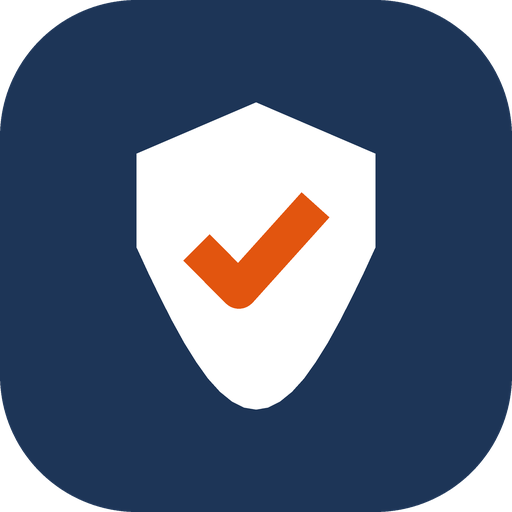
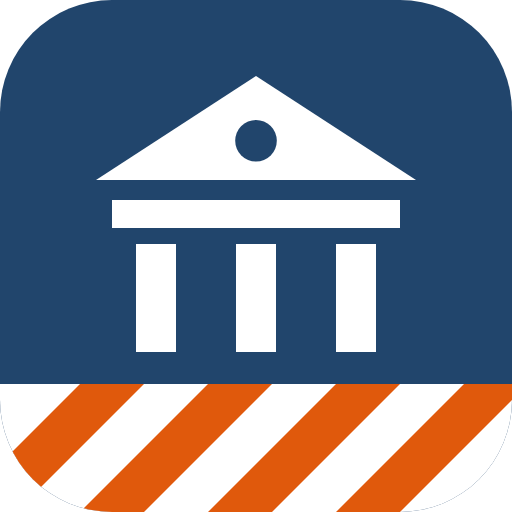
Accessibilité, identité visuelle, exemple signalé comme fictif
- Accessibilité : contrastes d'au moins 4,5:1 (orange de signal assombri), titre de niveau 1, lien d'évitement, onglets reliés au panneau, champs modifiables nommés ; aucune erreur axe-core WCAG 2.2 AA sur les onze écrans, en clair et en sombre
- Identité : marque fronton de mairie et bandeau d'exercice, icônes d'application, favicon, page de garde du dossier
- Documents d'exemple marqués « Exemple sur une commune fictive »
- 53 vérifications

Claude-Session: https://claude.ai/code/session_01JrXbuHfXfhv6oEXZLmKVKV

diff --git a/index.html b/index.html
@@ -7,8 +7,9 @@
 <meta name="theme-color" content="#ffffff" media="(prefers-color-scheme: light)">
 <meta name="theme-color" content="#191e26" media="(prefers-color-scheme: dark)">
 <link rel="manifest" href="manifest.webmanifest">
-<link rel="icon" href="icon-192.png">
-<link rel="apple-touch-icon" href="icon-192.png">
+<link rel="icon" href="favicon.svg" type="image/svg+xml">
+<link rel="icon" href="icon-192.png" sizes="192x192">
+<link rel="apple-touch-icon" href="apple-touch-icon.png">
 <link rel="stylesheet" href="fonts/polices.css" data-polices>
 <!-- debut-contenu -->
 <title>Commune Prête</title>
@@ -22,9 +23,9 @@
    Une seule couleur de signal, l'orange d'exercice, réservée au marquage et à ce qui demande une action. */
 :root{
   --bg:#e8ecf0; --surface:#ffffff; --surface-2:#f2f4f7; --sunk:#e1e6ec;
-  --ink:#17202b; --muted:#536070; --faint:#8a94a1; --line:#dbe1e7; --line-2:#c6cfd9;
+  --ink:#17202b; --muted:#536070; --faint:#646f7d; --line:#dbe1e7; --line-2:#c6cfd9;
   --primary:#21456c; --primary-ink:#ffffff; --primary-soft:#e4ebf3;
-  --accent:#d4530a; --accent-soft:#fbece2;
+  --accent:#b84605; --accent-soft:#fbece2;
   --ok:#22744a; --ok-soft:#e1f1e8; --warn:#8f5c0d; --warn-soft:#f8eedc; --bad:#ac281c; --bad-soft:#f9e4e1;
   --violet:#6a4fc4; --teal:#0d7474;
   --shadow:0 1px 0 rgba(23,32,43,.04),0 1px 2px rgba(23,32,43,.06);
@@ -37,7 +38,7 @@
 }
 @media (prefers-color-scheme: dark){:root:not([data-theme="light"]){
   --bg:#11151b; --surface:#191e26; --surface-2:#20262f; --sunk:#0d1116;
-  --ink:#e2e7ed; --muted:#9aa5b2; --faint:#6c7784; --line:#29313c; --line-2:#36404c;
+  --ink:#e2e7ed; --muted:#9aa5b2; --faint:#8793a1; --line:#29313c; --line-2:#36404c;
   --primary:#a9c4e5; --primary-ink:#11151b; --primary-soft:#1d2a3a;
   --accent:#ee8648; --accent-soft:#36231a;
   --ok:#66c393; --ok-soft:#15271d; --warn:#dfac58; --warn-soft:#2c2313; --bad:#ee7c70; --bad-soft:#331a18;
@@ -45,7 +46,7 @@
   --shadow:0 1px 0 rgba(0,0,0,.25); --shadow-lg:0 20px 44px -20px rgba(0,0,0,.7); color-scheme:dark}}
 :root[data-theme="dark"]{
   --bg:#11151b; --surface:#191e26; --surface-2:#20262f; --sunk:#0d1116;
-  --ink:#e2e7ed; --muted:#9aa5b2; --faint:#6c7784; --line:#29313c; --line-2:#36404c;
+  --ink:#e2e7ed; --muted:#9aa5b2; --faint:#8793a1; --line:#29313c; --line-2:#36404c;
   --primary:#a9c4e5; --primary-ink:#11151b; --primary-soft:#1d2a3a;
   --accent:#ee8648; --accent-soft:#36231a;
   --ok:#66c393; --ok-soft:#15271d; --warn:#dfac58; --warn-soft:#2c2313; --bad:#ee7c70; --bad-soft:#331a18;
@@ -59,6 +60,9 @@ img{max-width:100%}
 button{font-family:inherit;color:inherit}
 a{color:var(--primary);text-underline-offset:2px}
 ::selection{background:var(--primary-soft)}
+.skip{position:absolute;left:12px;top:-60px;z-index:60;background:var(--primary);color:var(--primary-ink);padding:10px 14px;border-radius:var(--r-sm);font-weight:700;text-decoration:none}
+.skip:focus{top:10px}
+.sr{position:absolute;width:1px;height:1px;padding:0;margin:-1px;overflow:hidden;clip:rect(0,0,0,0);white-space:nowrap;border:0}
 :focus-visible{outline:2px solid var(--primary);outline-offset:2px}
 *{scrollbar-width:thin;scrollbar-color:var(--line-2) transparent}
 
@@ -67,6 +71,7 @@ a{color:var(--primary);text-underline-offset:2px}
 .appbar .in{height:var(--bar);padding-inline:20px;display:flex;align-items:center;gap:14px}
 .logo{display:flex;align-items:center;gap:10px;font-weight:700;font-size:16px;letter-spacing:-.005em;white-space:nowrap}
 .logo svg{flex:none}
+.logo h1{margin:0;font:inherit;letter-spacing:inherit}
 .logo small{font-weight:400;font-size:13.5px;color:var(--muted);margin-left:10px;padding-left:12px;border-left:1px solid var(--line)}
 .status{margin-left:auto;display:flex;align-items:center;gap:16px}
 .pill{display:inline-flex;align-items:center;gap:8px;font-size:13px;color:var(--muted);white-space:nowrap}
@@ -190,7 +195,7 @@ details.more .inner{display:flex;flex-direction:column;gap:12px;padding-bottom:1
 .tabs.ovf{-webkit-mask-image:linear-gradient(90deg,#000 calc(100% - 36px),transparent);mask-image:linear-gradient(90deg,#000 calc(100% - 36px),transparent)}
 .tabs.ovf.end{-webkit-mask-image:linear-gradient(90deg,transparent,#000 36px);mask-image:linear-gradient(90deg,transparent,#000 36px)}
 .tabs.ovf.mid{-webkit-mask-image:linear-gradient(90deg,transparent,#000 36px,#000 calc(100% - 36px),transparent);mask-image:linear-gradient(90deg,transparent,#000 36px,#000 calc(100% - 36px),transparent)}
-.tgrp{font-size:12.5px;color:var(--faint);padding:2px 4px 0 18px;white-space:nowrap}
+.tgrp{font-size:12.5px;color:var(--muted);padding:2px 4px 0 18px;white-space:nowrap}
 .tgrp:first-child{padding-left:2px}
 .tab{border:0;background:transparent;font-size:14px;color:var(--muted);padding:9px 9px 10px;cursor:pointer;white-space:nowrap;position:relative;border-radius:var(--r-sm) var(--r-sm) 0 0}
 .tab:hover{color:var(--ink);background:color-mix(in srgb,var(--surface) 55%,transparent)}
@@ -217,6 +222,7 @@ details.more .inner{display:flex;flex-direction:column;gap:12px;padding-bottom:1
 .dochead .meta{font-size:13px;color:var(--muted);margin-top:3px}
 .docbody{padding:30px clamp(18px,4vw,48px) 40px;display:flex;flex-direction:column;gap:28px}
 .docbody h3{font-family:var(--f-doc);font-size:clamp(24px,2.6vw,30px);line-height:1.2;font-weight:600;letter-spacing:-.01em;margin:0;text-wrap:balance}
+.docbody h2.obst{font-family:var(--f-doc);font-size:clamp(24px,2.6vw,30px);line-height:1.2;font-weight:600;margin:0}
 .docbody h4{font-size:15px;font-weight:700;color:var(--ink);margin:0;display:flex;align-items:center;gap:12px}
 .docbody h4::after{content:"";flex:1;height:1px;background:var(--line)}
 .docbody p{margin:0;max-width:72ch}
@@ -305,6 +311,8 @@ td.tm{font-weight:700;white-space:nowrap}
 .lhead .btn{background:transparent;color:var(--surface);border-color:color-mix(in srgb,var(--surface) 35%,transparent)}
 .lhead .btn:hover{background:color-mix(in srgb,var(--surface) 12%,transparent)}
 .lhead .btn.primary{background:var(--accent);border-color:var(--accent);color:#fff}
+:root[data-theme="dark"] .lhead .btn.primary{color:#11151b}
+@media (prefers-color-scheme: dark){:root:not([data-theme="light"]) .lhead .btn.primary{color:#11151b}}
 .lbtns{display:flex;flex-wrap:wrap;gap:8px}
 .lcard{border:1px solid var(--line);border-radius:var(--r);padding:14px 16px;margin:10px 0;display:flex;flex-direction:column;gap:7px;background:var(--surface)}
 .lcard.due{border-color:var(--accent);box-shadow:inset 3px 0 0 var(--accent)}
@@ -319,7 +327,7 @@ td.tm{font-weight:700;white-space:nowrap}
 .mclist li{display:grid;grid-template-columns:96px minmax(0,1fr);gap:12px;padding:8px 2px;border-bottom:1px solid var(--line);font-size:14.5px}
 .mclist time{font-size:13.5px;font-weight:700;color:var(--muted)}
 body.obsmode .shell{grid-template-columns:minmax(0,780px);justify-content:center}
-body.obsmode .status,body.obsmode #panelBtn{display:none}
+body.obsmode .status,body.obsmode #panelBtn,body.obsmode .skip{display:none}
 body.obsmode .tools-r{border-left:0;margin-left:auto}
 body.obsmode .doc{overflow:visible}
 body.obsmode .obsr .cot{display:grid;grid-template-columns:repeat(3,minmax(0,1fr));width:100%;max-width:360px}
@@ -429,11 +437,16 @@ body.obsmode .nowb{min-height:42px}
 @media print{.appbar,.config,.bar,.tools,.toast,.hello{display:none!important}.shell{display:block}.work{padding:0;max-width:none}.doc{box-shadow:none;border:0}}
 </style>
 
+<a class="skip" href="#view">Aller au dossier</a>
 <header class="appbar">
   <div class="in">
     <div class="logo">
-      <svg width="28" height="28" viewBox="0 0 30 30" aria-hidden="true"><rect width="30" height="30" rx="7" fill="var(--primary)"/><path d="M15 6l7 3v5.5c0 4.2-2.9 7.6-7 9.5-4.1-1.9-7-5.3-7-9.5V9z" fill="var(--primary-ink)"/><path d="M11.5 14.5l2.5 2.5 4.5-5" stroke="var(--accent)" stroke-width="2.2" fill="none" stroke-linecap="round" stroke-linejoin="round"/></svg>
-      <span>Commune Prête<small>Préparer, conduire et évaluer vos exercices de crise</small></span>
+      <svg width="30" height="30" viewBox="0 0 64 64" aria-hidden="true"><defs><clipPath id="cpT"><rect width="64" height="64" rx="14"/></clipPath></defs><g clip-path="url(#cpT)"><rect width="64" height="64" fill="#21456c"/><path d="M32 9.5 L52 22.5 H12 Z" fill="#ffffff"/><circle cx="32" cy="17.6" r="2.6" fill="#21456c"/>
+    <rect x="14" y="25" width="36" height="3.5" fill="#ffffff"/>
+    <rect x="17" y="30.5" width="5" height="13.5" fill="#ffffff"/><rect x="29.5" y="30.5" width="5" height="13.5" fill="#ffffff"/><rect x="42" y="30.5" width="5" height="13.5" fill="#ffffff"/>
+    <rect x="0" y="48" width="64" height="16" fill="#ffffff"/>
+    <path d="M-6 64 L10 48 H18 L2 64 Z M10 64 L26 48 H34 L18 64 Z M26 64 L42 48 H50 L34 64 Z M42 64 L58 48 H66 L50 64 Z M58 64 L74 48 H82 L66 64 Z" fill="#e0590c"/></g></svg>
+      <h1 class="brand">Commune Prête<small>Préparer, conduire et évaluer vos exercices de crise</small></h1>
     </div>
     <div class="status">
       <span class="pill" id="pillData"><span class="dot wait"></span>Bases publiques : test en cours</span>
@@ -569,7 +582,7 @@ body.obsmode .nowb{min-height:42px}
       <dl class="sum" id="kpis"></dl>
       <div class="tools" id="tools"></div>
     </div>
-    <section id="view"></section>
+    <section id="view" role="tabpanel" tabindex="-1"></section>
   </main>
 </div>
 <div class="toast" id="toast" role="status" aria-live="polite"></div>
@@ -1871,19 +1884,19 @@ function vChrono(){
       <div class="top">
         <span class="time"><input class="tmin" type="number" min="0" step="5" value="${i.t}" aria-label="Minute de l'inject ${n+1}">${hplus(i.t)}${S.p.heureH?`<span class="clk">${clock(i.t)}</span>`:""}</span>
         ${tagOf(i.obj)}${i.sec?`<span class="tag o-SEC">Cascade · ${esc(RISKS[i.sec].label)}</span>`:""}
-        <span class="flow"><span contenteditable="true" data-f="from">${esc(i.from)}</span> → <span contenteditable="true" data-f="to">${esc(i.to)}</span></span>
-        <span class="spacer"><span class="via" contenteditable="true" data-f="via">${esc(i.via)}</span><button class="del" type="button" data-del="${n}" aria-label="Supprimer l'inject ${n+1}">×</button></span>
+        <span class="flow"><span contenteditable="true" role="textbox" aria-label="Émetteur" data-f="from">${esc(i.from)}</span> → <span contenteditable="true" role="textbox" aria-label="Destinataire" data-f="to">${esc(i.to)}</span></span>
+        <span class="spacer"><span class="via" contenteditable="true" role="textbox" aria-label="Vecteur" data-f="via">${esc(i.via)}</span><button class="del" type="button" data-del="${n}" aria-label="Supprimer l'inject ${n+1}">×</button></span>
       </div>
-      <div class="msg" contenteditable="true" data-f="msg">${esc(i.msg)}</div>
-      <div class="exp"><b>Attendu</b><span contenteditable="true" data-f="exp">${esc(i.exp)}</span></div>
+      <div class="msg" contenteditable="true" role="textbox" aria-label="Message" data-f="msg">${esc(i.msg)}</div>
+      <div class="exp"><b>Attendu</b><span contenteditable="true" role="textbox" aria-label="Réaction attendue" data-f="exp">${esc(i.exp)}</span></div>
     </article>`).join("")}</div>`;
   } else {
-    body=`<div class="tablewrap"><table class="big"><thead><tr><th>Heure</th><th>Objectif</th><th>Émetteur</th><th>Destinataire</th><th>Vecteur</th><th>Message</th><th>Réaction attendue</th><th></th></tr></thead><tbody>${S.injects.map((i,n)=>`<tr data-i="${n}">
+    body=`<div class="tablewrap"><table class="big"><thead><tr><th>Heure</th><th>Objectif</th><th>Émetteur</th><th>Destinataire</th><th>Vecteur</th><th>Message</th><th>Réaction attendue</th><th><span class="sr">Supprimer</span></th></tr></thead><tbody>${S.injects.map((i,n)=>`<tr data-i="${n}">
       <td class="tm"><input class="tmin" type="number" min="0" step="5" value="${i.t}" aria-label="Minute de l'inject ${n+1}"><div>${hplus(i.t)}${S.p.heureH?" · "+clock(i.t):""}</div></td>
       <td>${tagOf(i.obj)}${i.sec?`<span class="tag o-SEC">Cascade · ${esc(RISKS[i.sec].label)}</span>`:""}</td>
-      <td><div contenteditable="true" data-f="from">${esc(i.from)}</div></td><td><div contenteditable="true" data-f="to">${esc(i.to)}</div></td>
-      <td><div contenteditable="true" data-f="via">${esc(i.via)}</div></td><td><div contenteditable="true" data-f="msg">${esc(i.msg)}</div></td>
-      <td><div contenteditable="true" data-f="exp">${esc(i.exp)}</div></td>
+      <td><div contenteditable="true" role="textbox" aria-label="Émetteur" data-f="from">${esc(i.from)}</div></td><td><div contenteditable="true" role="textbox" aria-label="Destinataire" data-f="to">${esc(i.to)}</div></td>
+      <td><div contenteditable="true" role="textbox" aria-label="Vecteur" data-f="via">${esc(i.via)}</div></td><td><div contenteditable="true" role="textbox" aria-label="Message" data-f="msg">${esc(i.msg)}</div></td>
+      <td><div contenteditable="true" role="textbox" aria-label="Réaction attendue" data-f="exp">${esc(i.exp)}</div></td>
       <td><button class="del" type="button" data-del="${n}" aria-label="Supprimer l'inject ${n+1}">×</button></td></tr>`).join("")}</tbody></table></div>`;
   }
   return docHead("Chronogramme")+`<div class="docbody"><h3>Chronogramme d'animation</h3><p class="note">Cliquez sur un texte pour le modifier. Le temps se règle en minutes après H et l'ordre se met à jour seul.</p>${body}</div>`;
@@ -2114,6 +2127,7 @@ function reportHTML(){
   const prev=hCommune().filter(x=>x.id!==S.archId);
   return `<!doctype html><html lang="fr"><head><meta charset="utf-8"><title>Rapport de fin d'exercice — ${esc(p.commune)}</title><style>${printCss("Rapport de fin d'exercice")}h2{font-size:13pt;margin:16pt 0 6pt;border-bottom:1px solid #c6cfd9;padding-bottom:3pt;break-after:avoid;page-break-after:avoid}</style></head><body>
   <p class="mark">EXERCICE · EXERCICE · EXERCICE</p>
+  ${S.isExample?`<div class="callout warn"><b>Exemple sur une commune fictive.</b> Recherchez votre commune dans Commune Prête pour obtenir son propre rapport.</div>`:""}
   <p class="note" style="font-size:11pt;margin:14pt 0 2pt">Commune de ${esc(p.commune)}${p.pop?" · "+nf(p.pop)+" habitants":""}${p.dept?" · "+esc(p.dept):""}</p>
   <h1>Rapport de fin d'exercice</h1>
   <p style="font-size:12pt;color:#21456c">${esc(riskTitle(p))}</p>
@@ -2145,10 +2159,11 @@ function printHTML(html){
   setTimeout(()=>{try{fr.contentWindow.focus();fr.contentWindow.print()}catch(e){toast("Impression bloquée par le navigateur.")}setTimeout(()=>fr.remove(),4000)},300);
 }
 /* ---------- Dossier complet et fiches joueurs ---------- */
+const MARK_PRINT=`<svg width="22" height="22" viewBox="0 0 64 64" aria-hidden="true"><defs><clipPath id="cpP"><rect width="64" height="64" rx="14"/></clipPath></defs><g clip-path="url(#cpP)"><rect width="64" height="64" fill="#21456c"/><path d="M32 9.5 L52 22.5 H12 Z" fill="#ffffff"/><circle cx="32" cy="17.6" r="2.6" fill="#21456c"/>\n    <rect x="14" y="25" width="36" height="3.5" fill="#ffffff"/>\n    <rect x="17" y="30.5" width="5" height="13.5" fill="#ffffff"/><rect x="29.5" y="30.5" width="5" height="13.5" fill="#ffffff"/><rect x="42" y="30.5" width="5" height="13.5" fill="#ffffff"/>\n    <rect x="0" y="48" width="64" height="16" fill="#ffffff"/>\n    <path d="M-6 64 L10 48 H18 L2 64 Z M10 64 L26 48 H34 L18 64 Z M26 64 L42 48 H50 L34 64 Z M42 64 L58 48 H66 L50 64 Z M58 64 L74 48 H82 L66 64 Z" fill="#e0590c"/></g></svg>`;
 const cssq=t=>'"'+String(t).replace(/["\\]/g,"\\$&").replace(/\n/g," ")+'"';
 // Feuille commune aux documents imprimés. Word ignore @page et les marges nommées ; le PDF (navigateur) les applique.
 function printCss(titre){
-  return `@page{size:A4;margin:22mm 17mm 20mm 17mm;@top-left{content:"EXERCICE · EXERCICE · EXERCICE";color:#d4530a;font:bold 7.5pt Calibri,Arial,sans-serif;letter-spacing:1.5pt}@top-right{content:${cssq(S.p.commune+" · "+titre)};color:#536070;font:8pt Calibri,Arial,sans-serif}@bottom-left{content:"Document d'exercice · ne pas diffuser en dehors de l'exercice";color:#8a94a1;font:7.5pt Calibri,Arial,sans-serif}@bottom-right{content:"Page " counter(page) " sur " counter(pages);color:#536070;font:8pt Calibri,Arial,sans-serif}}
+  return `@page{size:A4;margin:22mm 17mm 20mm 17mm;@top-left{content:"EXERCICE · EXERCICE · EXERCICE";color:#d4530a;font:bold 7.5pt Calibri,Arial,sans-serif;letter-spacing:1.5pt}@top-right{content:${cssq((S.isExample?"EXEMPLE FICTIF · ":"")+S.p.commune+" · "+titre)};color:#536070;font:8pt Calibri,Arial,sans-serif}@bottom-left{content:"Document d'exercice · ne pas diffuser en dehors de l'exercice";color:#8a94a1;font:7.5pt Calibri,Arial,sans-serif}@bottom-right{content:"Page " counter(page) " sur " counter(pages);color:#536070;font:8pt Calibri,Arial,sans-serif}}
 @page:first{@top-left{content:none}@top-right{content:none}}
 @page paysage{size:A4 landscape;margin:16mm 14mm 16mm 14mm}
 *{-webkit-print-color-adjust:exact;print-color-adjust:exact;box-sizing:border-box}
@@ -2179,6 +2194,7 @@ table.obs td.c{width:52%}table.obs td.v{height:30pt}table.obs td.k{width:22%;whi
 table.roles td{width:50%}table.roles .who{font-size:8.5pt;color:#d4530a;font-weight:bold}table.roles b{font-size:11pt}
 pre{white-space:pre-wrap;font-family:Cambria,Georgia,serif;font-size:10pt;border:1px solid #c6cfd9;padding:7pt 9pt;margin:4pt 0 10pt;break-inside:avoid;page-break-inside:avoid}
 .cover{min-height:245mm;display:flex;flex-direction:column}
+.brandline{display:flex;align-items:center;gap:7pt;font-weight:bold;font-size:11pt;color:#21456c;margin:0 0 12pt}.brandline svg{width:22pt;height:22pt}
 .cover .band{height:9pt;background:repeating-linear-gradient(-45deg,#d4530a 0 7pt,#fff 7pt 14pt);margin:0 0 14pt}
 .cover .com{font-size:13pt;color:#536070;margin:46pt 0 6pt}
 .cover h1{font-size:30pt;margin:0 0 10pt}
@@ -2189,6 +2205,7 @@ pre{white-space:pre-wrap;font-family:Cambria,Georgia,serif;font-size:10pt;border
 }
 function cleanView(html){
   const d=document.createElement("div");d.innerHTML=html;
+  d.querySelectorAll(".sr").forEach(x=>x.remove());
   d.querySelectorAll(".dochead,button,.lbtns,details,.mapwrap,.catchips,.obsv-wrap input,.tools,script").forEach(x=>{if(x.classList&&x.classList.contains("cot")){return}x.remove()});
   d.querySelectorAll(".cot").forEach(x=>{x.outerHTML='<span class="chk">☐ Atteint ☐ Partiel ☐ Non atteint</span>'});
   d.querySelectorAll("input.tmin").forEach(x=>x.remove());
@@ -2213,7 +2230,8 @@ function dossierHTML(){
   let body="";try{body=parts.map(([t,f],i)=>`<div class="piece${f===vChrono?" paysage":""}">${cleanView(f())}</div>`).join("")}finally{S.view=keepView}
   const kv=[["Commune",esc(p.commune)+(p.pop?" · "+nf(p.pop)+" habitants":"")+(p.dept?" · "+esc(p.dept):"")],["Format",esc(FORMATS[p.format].label)],["Date",esc(cap(fmtDate(p.date)))],["Heure H",esc(p.heureH||"À fixer")+" · "+durTxt(p)+" de jeu"],["Directeur d'exercice","À désigner, hors cellule de crise"]];
   return `<!doctype html><html lang="fr"><head><meta charset="utf-8"><title>Dossier d'exercice — ${esc(p.commune)}</title><style>${printCss("Dossier d'exercice")}</style></head><body>
-  <div class="cover"><div class="band"></div><p class="mark">EXERCICE · EXERCICE · EXERCICE</p>
+  <div class="cover"><div class="band"></div><p class="brandline">${MARK_PRINT}<span>Commune Prête</span></p><p class="mark">EXERCICE · EXERCICE · EXERCICE</p>
+  ${S.isExample?`<div class="callout warn"><b>Exemple sur une commune fictive.</b> Ce dossier illustre l'outil : aucune donnée réelle. Recherchez votre commune dans Commune Prête pour obtenir son propre dossier.</div>`:""}
   <p class="com">Commune de ${esc(p.commune)}</p><h1>Dossier d'exercice de crise</h1><p class="risk">${esc(riskTitle(p))}</p>
   <table class="kv">${kv.map(r=>`<tr><th>${r[0]}</th><td>${r[1]}</td></tr>`).join("")}</table>
   <h4>Contenu du dossier</h4>
@@ -2231,7 +2249,7 @@ function cardHTML(i,n){
   else if(/capture/i.test(via))core=`<div class="k">Capture d'écran d'une publication</div><div class="post"><div class="who">Compte local fictif · @infos_locales</div><div class="body">${msg}</div><div class="stats">312 partages · 87 commentaires</div></div>`;
   else if(/bulletin/i.test(via))core=`<div class="bull"><div class="t">Bulletin — ${esc(i.from)}</div><div class="body">${msg}</div></div>`;
   else core=`<div class="k">${esc(via)} · à jouer par l'animateur</div><div class="script body">« ${msg} »</div>`;
-  return `<div class="card"><div class="band"></div><div class="ex">EXERCICE · EXERCICE · EXERCICE</div><div class="meta"><span><b>Message ${n+1}</b> · ${hplus(i.t)}${clk?" · "+clk:""}</span><span>${esc(i.from)} → ${esc(i.to)}</span></div>${core}<div class="foot">Document d'exercice — ${esc(S.p.commune)} — ne pas diffuser en dehors de l'exercice.</div></div>`;
+  return `<div class="card"><div class="band"></div><div class="ex">EXERCICE · EXERCICE · EXERCICE</div><div class="meta"><span><b>Message ${n+1}</b> · ${hplus(i.t)}${clk?" · "+clk:""}</span><span>${esc(i.from)} → ${esc(i.to)}</span></div>${core}<div class="foot">${S.isExample?"Exemple fictif — ":""}Document d'exercice — ${esc(S.p.commune)} — ne pas diffuser en dehors de l'exercice.</div></div>`;
 }
 function cardsHTML(){return `<!doctype html><html lang="fr"><head><meta charset="utf-8"><title>Fiches joueurs — ${esc(S.p.commune)}</title><style>${CARD_CSS}</style></head><body>${S.injects.filter(i=>i.obj!=="FIN").map(cardHTML).join("")}</body></html>`}
 document.addEventListener("click",e=>{
@@ -2264,7 +2282,7 @@ function vHist(){
 }
 function vRetex(){
   const bars=S.p.objs.map(o=>{const t=tally(o),pc=x=>(x/t.n*100)+"%";return `<div class="brow"><span>${esc(OBJS[o].short)}</span><div class="track" role="img" aria-label="${t.a} atteints, ${t.p} partiels, ${t.k} non atteints sur ${t.n}"><i class="a" style="width:${pc(t.a)}"></i><i class="p" style="width:${pc(t.p)}"></i><i class="k" style="width:${pc(t.k)}"></i></div><span class="score">${t.a+t.p+t.k}/${t.n}</span></div>`}).join("");
-  const acts=S.retex.actions.map((x,n)=>`<tr data-a="${n}"><td><div contenteditable="true" data-af="a">${esc(x.a)}</div></td><td><div contenteditable="true" data-af="pilote">${esc(x.pilote)}</div></td><td><div contenteditable="true" data-af="ech">${esc(x.ech)}</div></td><td><button class="del" type="button" data-adel="${n}" aria-label="Supprimer l'action">×</button></td></tr>`).join("");
+  const acts=S.retex.actions.map((x,n)=>`<tr data-a="${n}"><td><div contenteditable="true" role="textbox" aria-label="Action" data-af="a">${esc(x.a)}</div></td><td><div contenteditable="true" role="textbox" aria-label="Pilote" data-af="pilote">${esc(x.pilote)}</div></td><td><div contenteditable="true" role="textbox" aria-label="Échéance" data-af="ech">${esc(x.ech)}</div></td><td><button class="del" type="button" data-adel="${n}" aria-label="Supprimer l'action">×</button></td></tr>`).join("");
   return docHead("Retour d'expérience")+`<div class="docbody"><h3>Retour d'expérience</h3>
     <div class="lbtns" style="margin:4px 0 10px"><button class="btn sm" type="button" id="repDoc">Rapport Word</button><button class="btn sm" type="button" id="repPdf">Rapport PDF</button><button class="btn sm ${pendingArch?"primary":""}" type="button" id="archBtn">${pendingArch?"Confirmer l'archivage":S.archId?"Mettre à jour l'archive":"Clôturer et archiver l'exercice"}</button></div>
     <div class="sec"><h4>Synthèse des cotations</h4><div class="legend"><span style="--c:var(--ok)">Atteint</span><span style="--c:var(--warn)">Partiel</span><span style="--c:var(--bad)">Non atteint</span></div><div class="bars">${bars}</div></div>
@@ -2273,7 +2291,7 @@ function vRetex(){
     ${(()=>{const D=delays();if(!D.length)return "";const done=D.filter(o=>o.d!=null),avg=done.length?Math.round(done.reduce((a,o)=>a+(o.d-o.s),0)/done.length):null;
       return `<div class="sec"><h4>Délais de réaction mesurés</h4><p class="note">${(()=>{const pl=(n,w)=>n+" "+w+(n>1?"s":""),nr=D.filter(o=>o.r!=null).length;return pl(D.length,"message")+" envoyé"+(D.length>1?"s":"")+", "+pl(done.length,"réaction")+" constatée"+(done.length>1?"s":"")+(avg!=null?", délai moyen "+avg+" min":"")+", "+pl(nr,"relance")+"."})()}</p><div class="tablewrap"><table style="min-width:540px"><thead><tr><th>Message</th><th>Objectif</th><th>Envoyé</th><th>Réaction</th><th>Délai</th></tr></thead><tbody>${D.map(o=>`<tr><td>${esc(o.i.from)} : ${esc(o.i.msg.slice(0,70))}${o.i.msg.length>70?"…":""}</td><td>${esc(OBJS[o.i.obj]?OBJS[o.i.obj].short:o.i.obj)}</td><td>${fmtShort(o.s)}</td><td>${o.d!=null?fmtShort(o.d):"—"}</td><td>${o.d!=null?Math.round(o.d-o.s)+" min":"aucune"}${o.r!=null?" · relancé":""}</td></tr>`).join("")}</tbody></table></div></div>`})()}
     <div class="two"><div class="field"><label for="rf">Points forts</label><textarea id="rf" data-r="forts">${esc(S.retex.forts)}</textarea></div><div class="field"><label for="ra">Axes d'amélioration</label><textarea id="ra" data-r="axes">${esc(S.retex.axes)}</textarea></div></div>
-    <div class="sec"><h4>Plan d'actions correctives</h4><div class="tablewrap"><table style="min-width:540px"><thead><tr><th>Action</th><th>Pilote</th><th>Échéance</th><th></th></tr></thead><tbody>${acts}</tbody></table></div><div><button class="btn sm" type="button" id="addAct">+ Ajouter une action</button></div></div>
+    <div class="sec"><h4>Plan d'actions correctives</h4><div class="tablewrap"><table style="min-width:540px"><thead><tr><th>Action</th><th>Pilote</th><th>Échéance</th><th><span class="sr">Supprimer</span></th></tr></thead><tbody>${acts}</tbody></table></div><div><button class="btn sm" type="button" id="addAct">+ Ajouter une action</button></div></div>
     <div class="callout">${info}<span>Le retour d'expérience associe l'ensemble des acteurs et formule des recommandations pour ajuster le plan ${refLink("CSI D731-9 à D731-13")}. Le PCS se révise ensuite, et au moins tous les cinq ans.</span></div>
     ${vHist()}
   </div>`;
@@ -2317,11 +2335,11 @@ function render(){
   const p=S.p;
   const k=[["Risque joué",RISKS[p.risk].label+(comboOf(p).length?" +"+comboOf(p).length:""),1],["Format",FORMATS[p.format].short],["Durée de jeu",durTxt(p)],["Messages",S.injects.length],["Objectifs",p.objs.length+" sur 7"]];
   $("#kpis").innerHTML=k.map(x=>`<div${x[2]?' class="hl"':""}><dt>${x[0]}</dt><dd title="${esc(x[1])}">${esc(x[1])}</dd></div>`).join("");
-  $("#tabs").innerHTML=TABS.map(t=>(t[2]?`<span class="tgrp" role="presentation">${t[2]}</span>`:"")+`<button class="tab" role="tab" type="button" id="tab-${t[0]}" aria-selected="${S.tab===t[0]}" tabindex="${S.tab===t[0]?0:-1}" data-tab="${t[0]}">${t[1]}</button>`).join("");
+  $("#tabs").innerHTML=TABS.map(t=>(t[2]?`<span class="tgrp" role="presentation">${t[2]}</span>`:"")+`<button class="tab" role="tab" type="button" id="tab-${t[0]}" aria-selected="${S.tab===t[0]}" aria-controls="view" tabindex="${S.tab===t[0]?0:-1}" data-tab="${t[0]}">${t[1]}</button>`).join("");
   let tools=`<button class="btn sm ghost" type="button" id="dosDoc" title="Télécharger le dossier complet au format Word">Word</button><button class="btn sm ghost" type="button" id="dosPdf" title="Imprimer ou enregistrer le dossier en PDF">PDF</button><button class="btn sm ghost" type="button" id="copyAll" title="Copier tout le dossier en texte">Copier</button>`;
   if(S.tab==="chrono")tools=`<div class="seg" role="group" aria-label="Affichage du chronogramme"><button type="button" data-view="tl" aria-pressed="${S.view!=="table"}">Frise</button><button type="button" data-view="table" aria-pressed="${S.view==="table"}">Tableau</button></div><button class="btn sm" type="button" id="addInj">Ajouter un message</button><button class="btn sm ghost" type="button" id="copyTsv" title="Copier le chronogramme pour un tableur">Tableur</button><button class="btn sm ghost" type="button" id="cardsPrint" title="Imprimer une fiche par message pour les animateurs">Fiches joueurs</button><span class="sep" aria-hidden="true"></span>`+tools;
   $("#tools").innerHTML=tools;
-  tabsFit(true);
+  tabsFit(true);$("#view").setAttribute("aria-labelledby","tab-"+S.tab);
   if(map){map.remove();map=null}
   $("#view").innerHTML=`<article class="card doc">${VIEWS[S.tab]()}</article>`;
   if(S.tab==="carte")drawMap();
@@ -2417,7 +2435,7 @@ function initObs(){
   const cr=o=>d.k&&o==="EVAL"?CRIT.EVAL.concat(["Le PCC hiérarchise les événements simultanés et réaffecte ses moyens"]):CRIT[o];
   const stamp=()=>d.s?fmtShort((Date.now()-d.s)/60000):wallNow();
   const draw=()=>{sh.innerHTML=`<main class="work"><article class="card doc"><div class="docbody">
-    <h3>Grille d'observation</h3><p class="note"><b>${esc(d.c)}</b>, ${esc(d.t.charAt(0).toLowerCase()+d.t.slice(1))}. Notez l'heure ou le délai constaté, cotez, puis envoyez votre code au directeur d'exercice. Vos saisies restent sur ce téléphone.</p>
+    <h2 class="obst">Grille d'observation</h2><p class="note"><b>${esc(d.c)}</b>, ${esc(d.t.charAt(0).toLowerCase()+d.t.slice(1))}. Notez l'heure ou le délai constaté, cotez, puis envoyez votre code au directeur d'exercice. Vos saisies restent sur ce téléphone.</p>
     <div class="field"><label for="oname">Votre nom</label><input type="text" id="oname" value="${esc(O.n||"")}"></div>
     ${(d.o||[]).filter(o=>OBJS[o]).map(o=>`<div class="obsg"><div class="gh"><span>${esc(OBJS[o].label)}</span></div>${cr(o).map((c,j)=>{const id=o+"-"+j,v=O.cot[id]||"";return `<div class="obsr"><span>${esc(c)}<span class="obsv-wrap"><input class="obsv" type="text" data-oid="${id}" value="${esc(O.obsv[id]||"")}" placeholder="Constaté" aria-label="Constaté"><button class="btn sm nowb" type="button" data-onow="${id}">Maintenant</button></span></span><span class="cot" role="group" aria-label="Cotation">${[["ok","Atteint"],["part","Partiel"],["ko","Non atteint"]].map(x=>`<button type="button" data-ocot="${id}" data-v="${x[0]}" aria-pressed="${v===x[0]}">${x[1]}</button>`).join("")}</span></div>`}).join("")}</div>`).join("")}
     <div class="obsfoot"><button class="btn primary" type="button" id="ocopy">Copier mon code pour le directeur</button></div>

diff --git a/tests/run.js b/tests/run.js
@@ -87,7 +87,7 @@ const view = t => t.q("#view").textContent;
   click(t, "#repDoc"); click(t, "#dosDoc"); await wait(50);
   const texts = await Promise.all(t.blobs.map(b => new Promise(r => { const f = new t.w.FileReader(); f.onload = () => r(f.result); f.readAsText(b) })));
   ok(texts.length === 2 && /Rapport de fin d'exercice/.test(texts[0]) && /Taux d'atteinte/.test(texts[0]), "rapport Word généré");
-  ok(/Convention d'exercice/.test(texts[1]) && /Fiches rôles/.test(texts[1]) && !/<button/.test(texts[1]), "dossier Word complet et propre");
+  ok(!/commune fictive/.test(texts[1]) && /Convention d'exercice/.test(texts[1]) && /Fiches rôles/.test(texts[1]) && !/<button/.test(texts[1]), "dossier Word complet et propre");
   click(t, '[data-tab="chrono"]'); click(t, "#cardsPrint"); await wait(400);
   const fr = [...t.d.querySelectorAll("iframe")].pop();
   ok(fr && fr.contentDocument.querySelectorAll(".card").length >= 12, "fiches joueurs prêtes à imprimer");
@@ -124,6 +124,9 @@ const view = t => t.q("#view").textContent;
   ok(/"theme":"auto"/.test(v.w.localStorage.getItem("commune-prete-affichage")), "choix d'affichage conservé");
   ok(!/Scénario disponible/.test(v.q("#risks").textContent), "liste des risques épurée");
   ok(!v.q("#hello").hidden, "bandeau d'accueil sur le dossier d'exemple");
+  click(v, "#dosDoc"); await wait(50);
+  const ex = await new Promise(r => { const f = new v.w.FileReader(); f.onload = () => r(f.result); f.readAsText(v.blobs.pop()) });
+  ok(/Exemple sur une commune fictive/.test(ex), "dossier d'exemple signalé comme fictif");
   await pickCommune(v, "bourg"); ok(v.q("#hello").hidden, "bandeau d'accueil masqué une fois la commune choisie");
   ok(!v.errs.length, "aucune erreur JavaScript" + (v.errs.length ? " : " + v.errs[0] : ""));
   v.close();

diff --git a/sw.js b/sw.js
@@ -2,8 +2,8 @@
    Page et bibliothèques : réseau d'abord, copie locale si le réseau manque.
    Fonds de carte déjà consultés : copie locale d'abord (400 tuiles au plus).
    Bases publiques (lecture) : réseau d'abord, dernière réponse connue sinon. */
-const CORE = "cp-core-v2", TILES = "cp-tiles", DATA = "cp-data";
-const PRECACHE = ["./", "./index.html", "./manifest.webmanifest", "./icon-192.png",
+const CORE = "cp-core-v3", TILES = "cp-tiles", DATA = "cp-data";
+const PRECACHE = ["./", "./index.html", "./manifest.webmanifest", "./icon-192.png", "./favicon.svg", "./apple-touch-icon.png",
   "./fonts/polices.css", "./fonts/atkinson-hyperlegible-next-latin-wght-normal.woff2", "./fonts/source-serif-4-latin-opsz-normal.woff2",
   "https://cdnjs.cloudflare.com/ajax/libs/leaflet/1.9.4/leaflet.js"];
 

diff --git a/README.md b/README.md
@@ -8,6 +8,7 @@ En ligne : https://9cdr9fmdkt-glitch.github.io/atelier-exercice-pcs/
 
 - `index.html` : l'outil complet, en un seul fichier (HTML, CSS, JavaScript). Seule dépendance : Leaflet 1.9.4 chargé depuis cdnjs.
 - `fonts/` : polices hébergées avec l'outil (Atkinson Hyperlegible Next pour l'interface, Source Serif 4 pour le contenu du dossier ; licence SIL OFL 1.1). Aucun appel à Google Fonts sur la version en ligne ; la copie artifact les charge depuis Google Fonts.
+- `favicon.svg` : la marque (fronton de mairie et bandeau d'exercice) ; `icon-*.png` et `apple-touch-icon.png` en sont tirés.
 - `sw.js`, `manifest.webmanifest`, `icon-*.png` : fonctionnement hors ligne et installation sur l'appareil (version en ligne uniquement).
 - Données publiques interrogées depuis le navigateur : geo.api.gouv.fr (communes, contours, intercommunalité, région), Géorisques (risques, arrêtés CatNat, installations classées, rapport de risques au point), annuaire de l'Éducation nationale (effectifs), OpenStreetMap via l'API Overpass (lieux), tuiles OpenStreetMap (fond de carte).
 - Aucune donnée de la commune n'est envoyée sur un serveur : l'état est conservé dans le navigateur (clé `atelier-pcs-v2` pour le dossier, `commune-prete-historique` pour l'historique, `commune-prete-obs-*` pour les observateurs, `commune-prete-affichage` pour le thème et le panneau).
@@ -19,3 +20,7 @@ L'outil est aussi publié comme artifact Claude. Le contenu publié est la parti
 ```sh
 sed -n '/<!-- debut-contenu -->/,/<!-- fin-contenu -->/p' index.html | sed '1d;$d' > artifact.html
 ```
+
+## Accessibilité
+
+Contrôle automatique axe-core (WCAG 2.2 A et AA) sur les dix onglets et le mode observateur, en thème clair et sombre : aucune erreur au 3 octobre 2026. Lien d'évitement, onglets reliés au panneau, champs modifiables nommés, contrastes d'au moins 4,5:1. Un audit RGAA complet (manuel, avec lecteur d'écran) reste à faire avant toute commercialisation.
